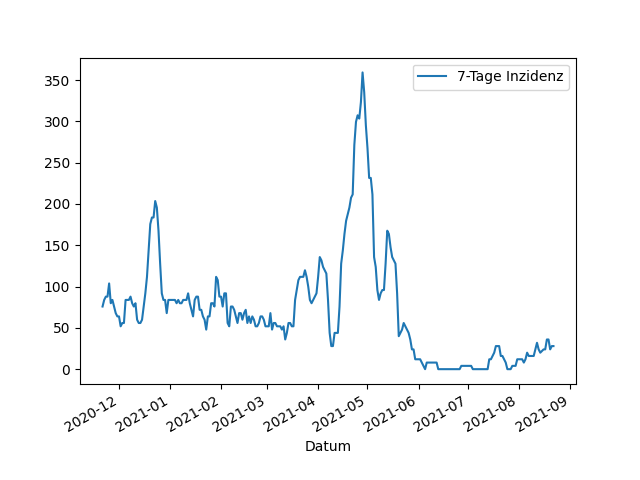
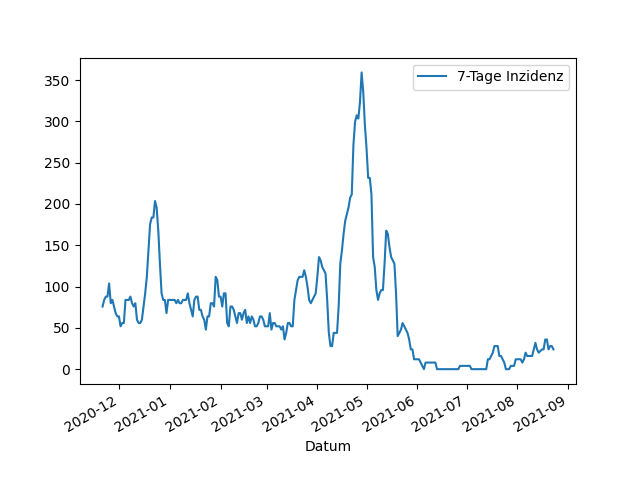
Update images

diff --git a/_includes/aktuelle_inzidenz.md b/_includes/aktuelle_inzidenz.md
@@ -1,1 +1,1 @@
-27,9
+24,0
